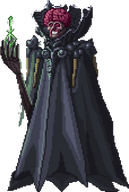
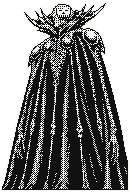
feat: sprites à l'encre de Femto et Void

diff --git a/docs/HANDOFF.md b/docs/HANDOFF.md
@@ -39,10 +39,10 @@ Tests : 26 suites, 215 tests, tous verts. CI GitHub (`.github/workflows/ci.yml`)
 
 ### Ce qui n'est PAS fait
 
-- **Sprites des compagnons** : les 14 compagnons ont leur sprite. Pour en ajouter un : PNG à fond transparent, 192 px de haut,
-  `assets/companions/<id>.png`, puis `image: require("../../assets/companions/<id>.png")` dans `src/data/companions.ts`. Les formes
-  de boss vont dans `assets/bosses/`. Rickert, Godo et Flora viennent d'images générées : Rickert a été retravaillé (table et
-  formules retirées, jambes reconstituées) ; Godo et Flora gardent leur enclume et leur établi.
+- **Sprites à l'encre** (voir `docs/sprites-encre.md`) : les 14 compagnons sont refaits (24/10/2026), ainsi que Bazuso,
+  Femto et Void. Restent Ubik, Conrad, Slan, Mozgus et Grunbeld (formes humaines) et les formes d'Apôtre (Zodd, Mozgus,
+  Grunbeld en dragon). Pour en ajouter un : PNG à fond transparent, 192 px de haut, `assets/companions/<id>.png`, puis
+  `image: require("../../assets/companions/<id>.png")` dans `src/data/companions.ts`. Les formes de boss vont dans `assets/bosses/`.
 - **Marche de Guts jeune** : planche de 6 images (`assets/map/guts-jeune-walk.png`, 6 × 155 × 192 px) faite par Nathan
   sur fond vert, détourée et retournée. Le dessin d'origine de @CRYBAG n'est plus utilisé dans l'app (crédit « D'après un
   dessin de @CRYBAG »). Ajouter un skin = une entrée dans `src/data/gutsSkins.ts`.

diff --git a/docs/sprites-encre.md b/docs/sprites-encre.md
@@ -122,7 +122,7 @@ Rien dans l'appli ne retourne les images : un boss généré tourné vers la dro
 6. Boss généré tourné vers la droite : le retourner avant la mise au format (fait pour Zodd).
 
 Faits : Casca et Griffith (21/10/2026), Bazuso (24/10/2026, pupilles ajoutées à la main après la mise au format), Gambino, Judeau, Pippin et Rickert (24/10/2026), Godo, Zodd en forme humaine (retourné, éclairci de 0.15) et
-le Chevalier Squelette (éclairci de 0.15, crâne redessiné à la main), Farnèse (en armure), Schierke, Flora, Serpico et Isidro (24/10/2026) : tous les compagnons sont faits. Plus difficiles à obtenir : ouvrir une
+le Chevalier Squelette (éclairci de 0.15, crâne redessiné à la main), Farnèse (en armure), Schierke, Flora, Serpico et Isidro (24/10/2026) : tous les compagnons sont faits. Ennemis : Femto (éclairci de 0.15) et Void (éclairci de 0.15, visage redessiné à la main) (24/10/2026). Plus difficiles à obtenir : ouvrir une
 nouvelle conversation ChatGPT tous les 3 ou 4 personnages (sinon il recopie Guts), ne pas joindre d'image sanglante et
 éviter les mots violents (refus pour « contenu violent »). Le Guts généré servira aux planches de marche de la carte, qui demandent plusieurs
 images (une par pas) : à faire à part.
